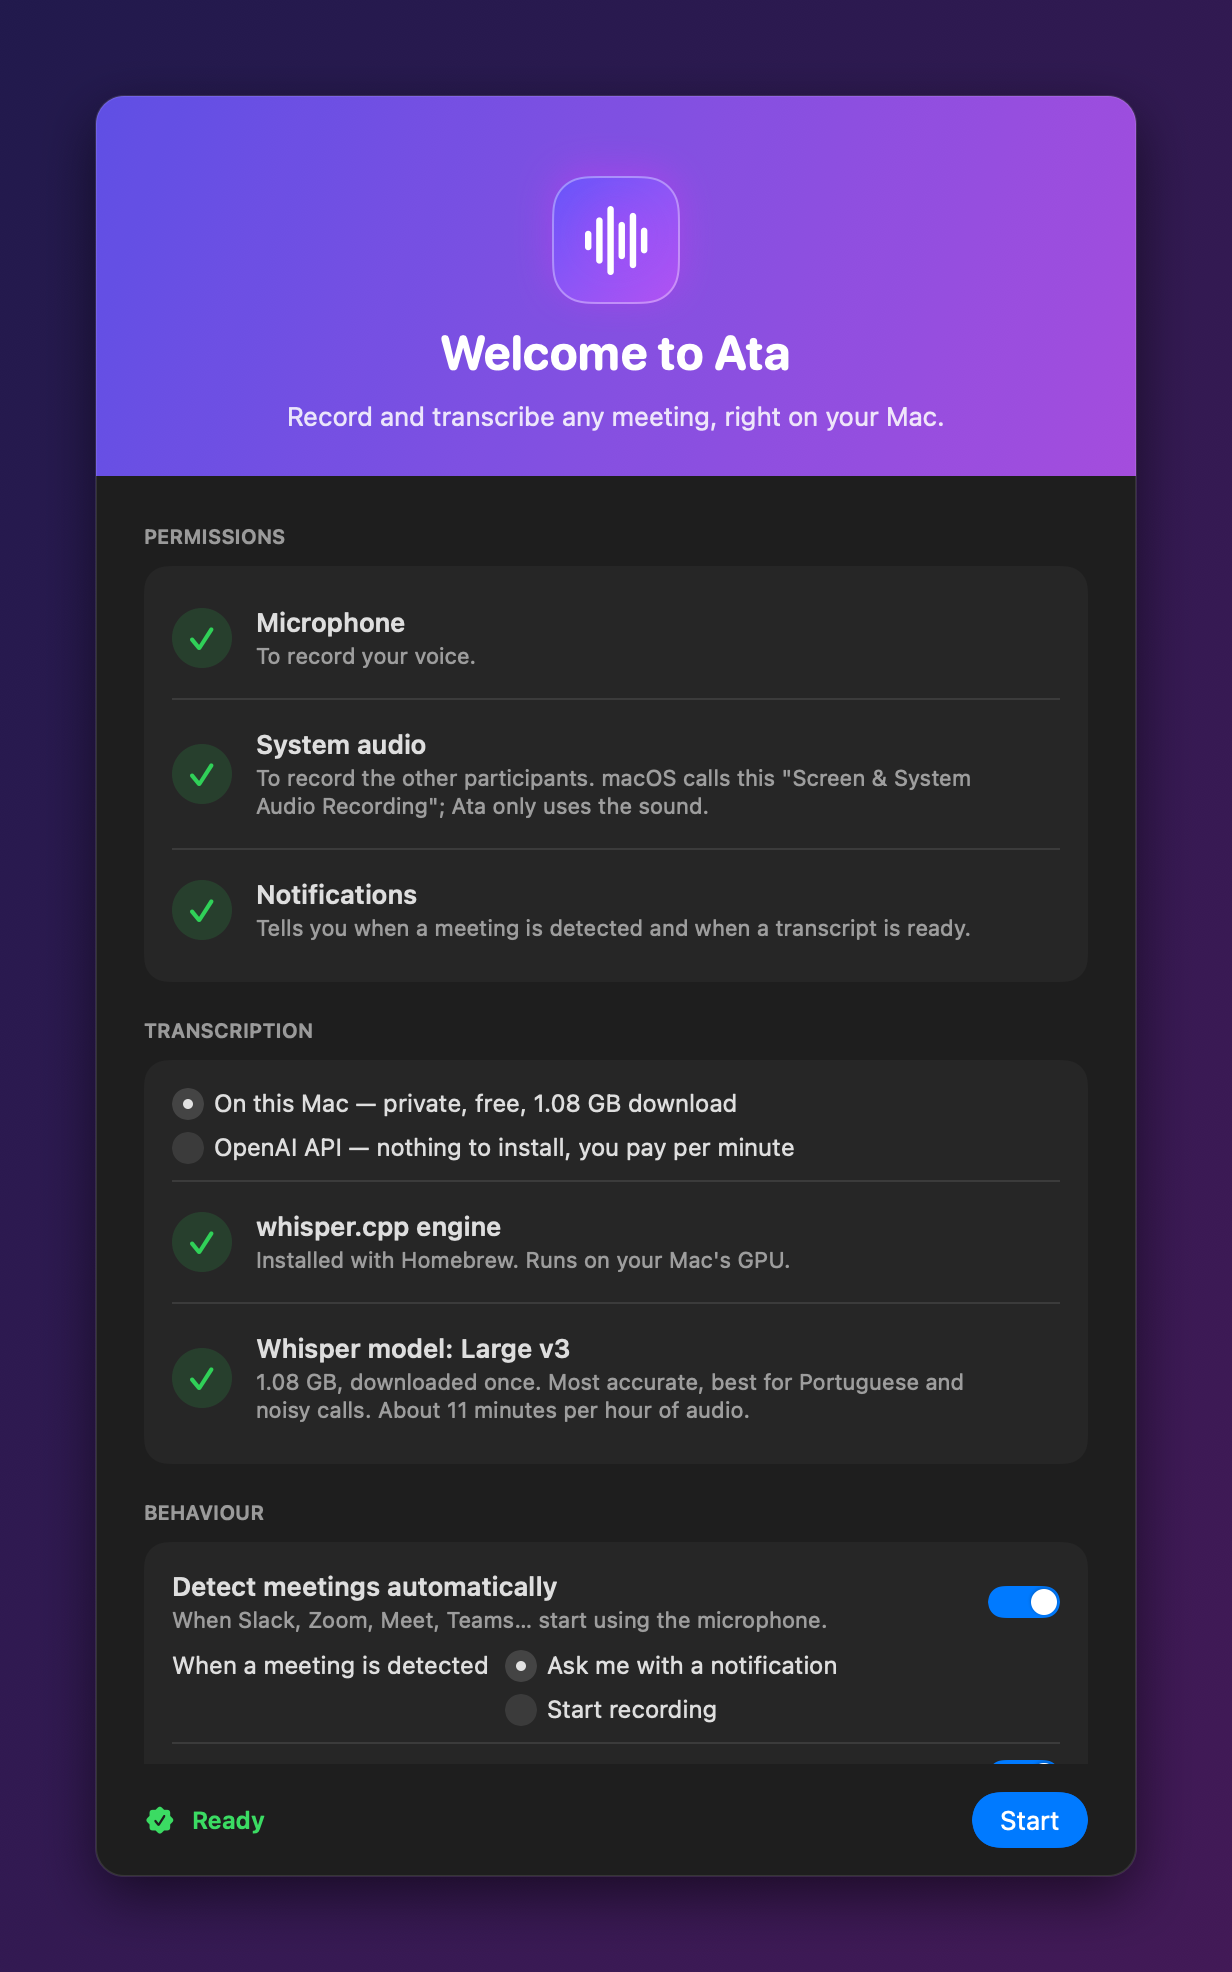
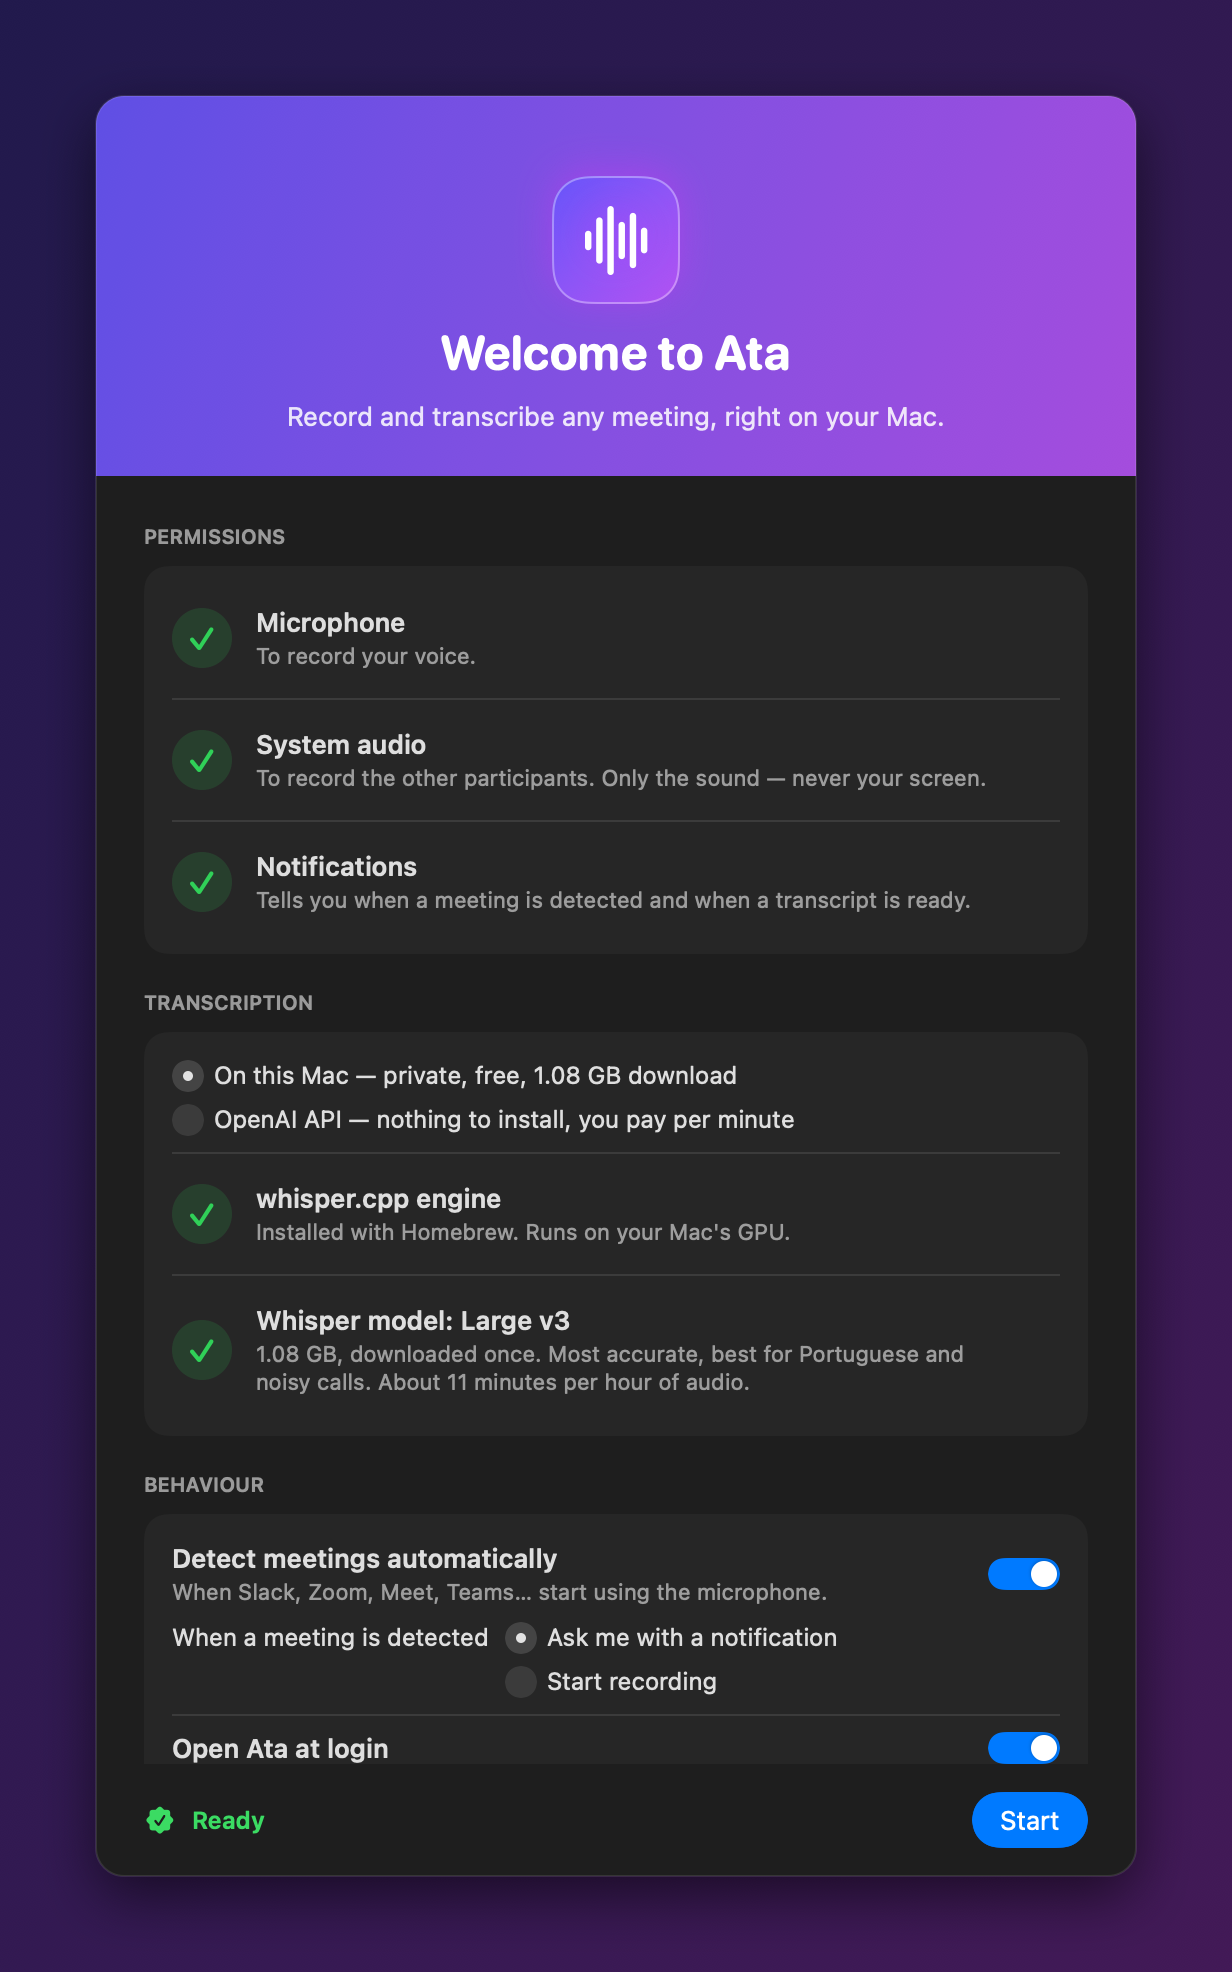
fix: never read the OpenAI key just to see whether it exists
Keychain.has fetched the secret, at launch and on every setup refresh
(every 1.5 s with the welcome window open). For a build signed differently
from the one that saved the key, macOS answers that with a keychain access
prompt and the app blocks at launch — found when screenshot rendering hung
after a real key was saved. Check attributes only; read the secret only
when calling OpenAI.

Also: 2.3.1, changelog, docs for the Core Audio capture and permission
flow, regenerated screenshots.

diff --git a/Sources/Ata/Keychain.swift b/Sources/Ata/Keychain.swift
@@ -38,9 +38,20 @@ enum Keychain {
         return String(data: data, encoding: .utf8)
     }
 
+    /// Whether a key is stored — from its attributes only. Reading the secret
+    /// itself can make macOS show a keychain access prompt (any build signed
+    /// differently from the one that saved it), and this runs at launch and
+    /// every time the setup state is refreshed.
     static func has(_ account: String) -> Bool {
-        guard let v = get(account) else { return false }
-        return !v.isEmpty
+        let query: [String: Any] = [
+            kSecClass as String: kSecClassGenericPassword,
+            kSecAttrService as String: service,
+            kSecAttrAccount as String: account,
+            kSecReturnAttributes as String: true,
+            kSecMatchLimit as String: kSecMatchLimitOne,
+        ]
+        var item: CFTypeRef?
+        return SecItemCopyMatching(query as CFDictionary, &item) == errSecSuccess
     }
 
     /// Account name for the OpenAI API key.

diff --git a/docs/ARCHITECTURE.md b/docs/ARCHITECTURE.md
@@ -8,7 +8,7 @@ finished `transcript.md`.
 flowchart LR
     subgraph capture [Capture]
         MIC[Microphone<br/>AVAudioEngine] --> W1[WavWriter<br/>mic.wav]
-        SYS[System audio<br/>ScreenCaptureKit] --> W2[WavWriter<br/>system.wav]
+        SYS[System audio<br/>Core Audio tap] --> W2[WavWriter<br/>system.wav]
     end
 
     DET[MeetingDetector] -- "an app took the mic" --> STORE
@@ -39,7 +39,7 @@ muting yourself doesn't end the recording.
 
 ## 2. Capturing two tracks — `Recorder` and `WavWriter`
 
-The microphone (via `AVAudioEngine`) and the Mac's output (via ScreenCaptureKit, audio only) are
+The microphone (via `AVAudioEngine`) and the Mac's output (via a Core Audio process tap) are
 recorded as **two separate 16 kHz mono WAV files**. Keeping them apart is what lets the transcript
 say who spoke — "you" or "the others" — without any speaker-recognition model.
 
@@ -54,6 +54,19 @@ say who spoke — "you" or "the others" — without any speaker-recognition mode
 
 `Recorder` restarts the microphone when the device changes, when it stops delivering buffers, and
 after the Mac wakes from sleep.
+
+**System audio** is a global Core Audio process tap (macOS 14.2+), excluding Ata's own sound,
+inside a private aggregate device clocked by the current output device; it is rebuilt when the
+output device changes. It needs only the audio-only "System Audio Recording Only" permission —
+not Screen Recording, which ScreenCaptureKit (used until 2.3.0) required, and which macOS only
+reported as granted after a relaunch, so the welcome window kept asking for it.
+
+Apple has no public API to read that permission. `SystemAudioPermission` uses the TCC
+framework's own entry points, loaded at runtime, and falls back to the system's prompt on first
+capture if they ever disappear. Two measured facts shape the flow: a tap started before the
+user answers delivers nothing, so Ata asks first; and a grant only takes effect for a process
+started after it, so Ata restarts itself once, when idle, right after the grant.
+`Ata --diagnose` prints both permissions and records five seconds of each track.
 
 ## 3. The queue — `AppStore`
 

diff --git a/CHANGELOG.md b/CHANGELOG.md
@@ -1,5 +1,34 @@
 # Changelog
 
+## 2.3.1
+
+- **Fixed: Ata kept asking for system-audio permission you had already given.** It recorded
+  system audio through screen capture, which needs *Screen Recording* and is only reported as
+  granted after a relaunch. Ata now records system audio with Core Audio under the audio-only
+  **System Audio Recording Only** permission — never your screen — asks once, and restarts
+  itself once right after you allow it. Requires macOS 14.2.
+- **Fixed: a keychain password prompt could block Ata at launch.** Checking whether an OpenAI
+  key was stored read the key itself, which macOS can answer with a keychain prompt; Ata now
+  only reads the key when it calls OpenAI.
+- A damaged audio file now fails with an error instead of giving a shorter transcript.
+- Summaries are written in your language and region: European Portuguese in Portugal.
+- From a full review:
+  - discarding a recording could make the next one stop itself after 10 seconds;
+  - meetings stayed queued after a model download until the next recording;
+  - with OpenAI, one silent stretch erased every timestamp, and models without timestamps
+    could attribute ten minutes of speech to one named person; long chunks for the
+    gpt-4o models could be cut short;
+  - OpenAI rate limits and server errors are retried instead of failing the meeting;
+  - quitting mid-transcription no longer leaves whisper-cli running, and the meeting is
+    transcribed on next launch;
+  - the updater no longer freezes the menu, won't restart during a recording, and won't
+    install a release your macOS can't run;
+  - audio retention and update checks run every few hours, not only at launch;
+  - deleting a meeting removes it from the voice library; an unreadable library is never
+    overwritten; an empty name shows as "Me"; update errors appear in the menu.
+- `Ata --diagnose` prints what Ata can access and records five seconds of each track, for bug
+  reports.
+
 ## 2.3.0
 
 - **Know who said what.** Turn on voice recognition in the new **People** tab and Ata tells the

diff --git a/AGENT_INSTRUCTIONS.md b/AGENT_INSTRUCTIONS.md
@@ -166,9 +166,9 @@ A correction that only lives in a chat log gets repeated next week.
 
 ## What this is
 
-A SwiftUI menu bar app for macOS 14+ on Apple Silicon (`LSUIElement`), built with SwiftPM —
+A SwiftUI menu bar app for macOS 14.2+ on Apple Silicon (`LSUIElement`), built with SwiftPM —
 no Xcode project. It records the microphone (AVAudioEngine) and system audio
-(ScreenCaptureKit) into two 16 kHz mono WAV tracks, then transcribes them with whisper.cpp
+(a Core Audio process tap) into two 16 kHz mono WAV tracks, then transcribes them with whisper.cpp
 locally or with the OpenAI API, and writes `transcript.md` into
 `~/Documents/Meetings/<date> <app>/`.
 
@@ -187,6 +187,14 @@ Layout:
   reimplement the bundle layout anywhere else.
 
 ## Rules specific to this repo
+
+- **System audio permission** ("System Audio Recording Only") is read and requested through
+  TCC SPI in `SystemAudio.swift`. Measured on macOS 26: a tap started before the user answers
+  delivers nothing, and a grant only applies to a process started after it — hence ask-first and
+  the one-time automatic restart in `SetupModel`. To retest the first-run flow:
+  `tccutil reset AudioCapture ai.interactive.ata`, then `Ata --diagnose` from a
+  Developer-ID-signed build (the user has to click Allow). Never chain a test after a build
+  with `;` — a failed build silently reruns the old binary and burns a permission prompt.
 
 - **Strings are localized.** Every user-facing string goes through SwiftUI `Text` or the
   `L()` helper, with the English text as the key, and must be added to BOTH

diff --git a/README.md b/README.md
@@ -6,7 +6,7 @@
 
 [![CI](https://github.com/mcpeixoto/Ata/actions/workflows/ci.yml/badge.svg)](https://github.com/mcpeixoto/Ata/actions/workflows/ci.yml)
 [![Latest release](https://img.shields.io/github/v/release/mcpeixoto/Ata?label=download&color=7c4dff)](https://github.com/mcpeixoto/Ata/releases/latest)
-![macOS 14+](https://img.shields.io/badge/macOS-14%2B-black?logo=apple)
+![macOS 14.2+](https://img.shields.io/badge/macOS-14.2%2B-black?logo=apple)
 ![Apple Silicon](https://img.shields.io/badge/Apple%20Silicon-arm64-black)
 ![Swift 5.9](https://img.shields.io/badge/Swift-5.9-F05138?logo=swift&logoColor=white)
 [![License: MIT](https://img.shields.io/badge/license-MIT-blue.svg)](LICENSE)
@@ -71,10 +71,14 @@ On your Mac with Whisper, or through the OpenAI API. Your call.
 2. Drag Ata into Applications and open it.
 3. Grant the microphone and system-audio permissions in the welcome window, and pick an engine.
 
+Ata asks for two permissions: the **microphone**, and **System Audio Recording Only** — the
+sound your Mac plays, never your screen. Allow both once and Ata restarts itself to start using
+them.
+
 Releases are signed with a Developer ID and notarized by Apple, so they open without warnings — and
 Ata keeps itself up to date from then on.
 
-**Requirements:** macOS 14 Sonoma or later, Apple Silicon.
+**Requirements:** macOS 14.2 Sonoma or later, Apple Silicon.
 
 <details>
 <summary><b>Build from source instead</b></summary>

diff --git a/CONTRIBUTING.md b/CONTRIBUTING.md
@@ -5,7 +5,7 @@ dependencies — so most changes are approachable in an afternoon.
 
 ## Five-minute setup
 
-You need a Mac with Apple Silicon, macOS 14+, and Xcode 26 (for Swift 6.2 package tools).
+You need a Mac with Apple Silicon, macOS 14.2+, and Xcode 26 (for Swift 6.2 package tools).
 
 ```bash
 git clone https://github.com/mcpeixoto/Ata.git
